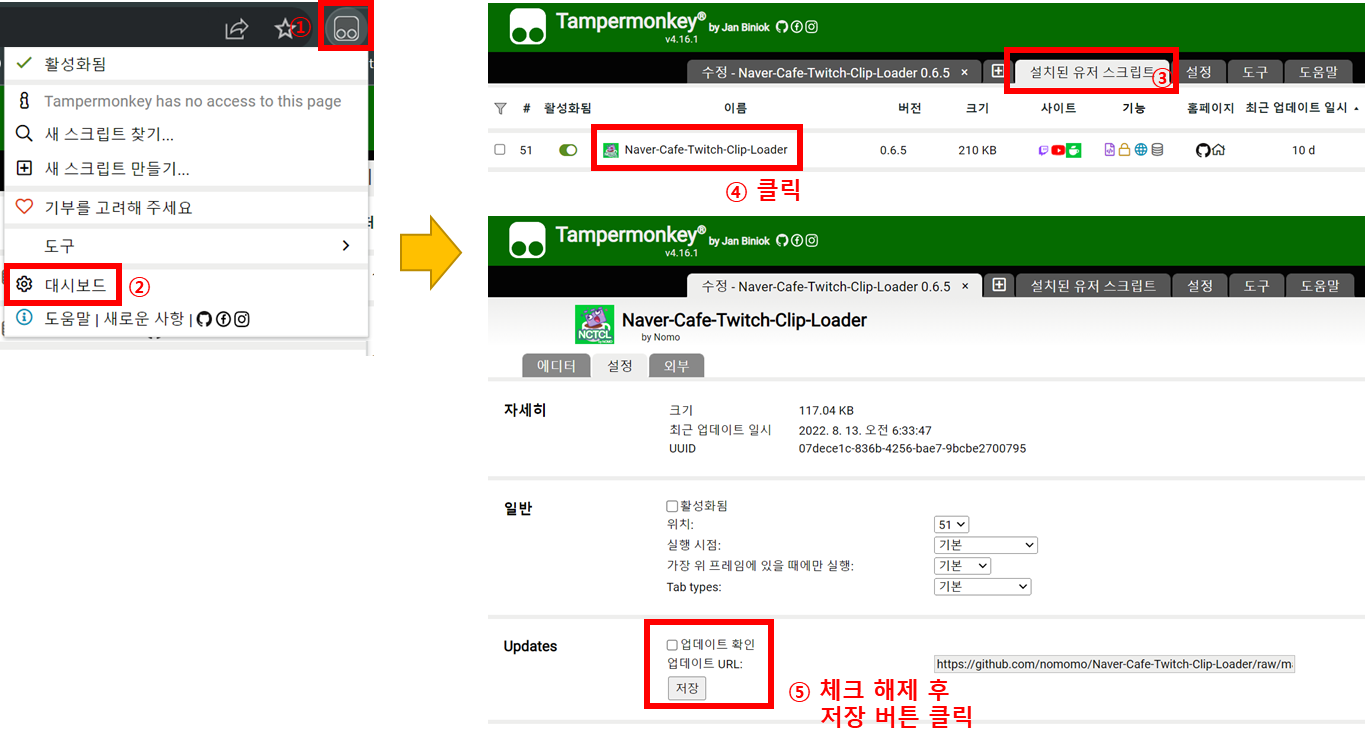
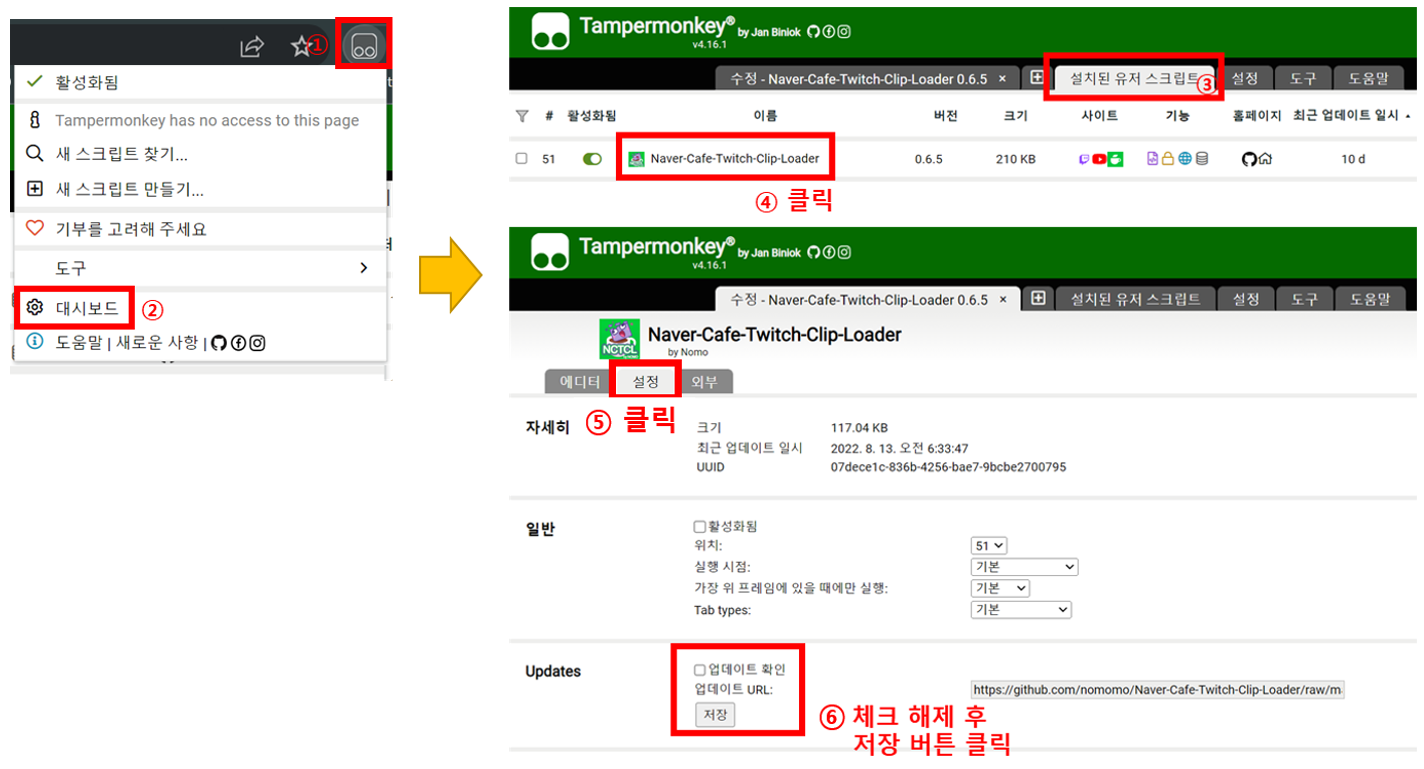
Update README.md

diff --git a/README.md b/README.md
@@ -50,7 +50,7 @@ Naver-Cafe-Twitch-Clip-Loader 의 설치 방법을 설명합니다.
 ## FAQ
 
 - Q: 스크립트를 새 버전으로 업데이트 하려면 어떻게 하나요?<br />A: 주기적으로 자동 업데이트 되지만, Tampermonkey 대시보드에서 "최근 업데이트 일시"를 클릭하여 수동 업데이트가 가능합니다.<br />설치 링크를 다시 클릭하여 업데이트 할 수도 있습니다. [Install](https://github.com/nomomo/Naver-Cafe-Twitch-Clip-Loader/raw/main/Naver-Cafe-Twitch-Clip-Loader.user.js)<br /><br />
-- Q: 스크립트를 업데이트 하기 싫은데 매일 업데이트 창이 떠요.<br />A: 다음과 같이 자동 업데이트를 해제하세요.<br />[Tampermonkey 대시보드] - [설치된 유저 스크립트] - [Naver-Cafe-Twitch-Clip_Loader] - [업데이트 확인 체크 해제] - [저장 버튼 클릭]<br />![DisableAutoUpdate](https://raw.githubusercontent.com/nomomo/Naver-Cafe-Twitch-Clip-Loader/master/images/NCTCL_disable_autoupdate.png)
+- Q: 스크립트를 업데이트 하기 싫은데 매일 업데이트 창이 떠요.<br />A: 다음과 같이 자동 업데이트를 해제하세요.<br />[Tampermonkey 대시보드] - [설치된 유저 스크립트] - [Naver-Cafe-Twitch-Clip_Loader] - [설정] - [업데이트 확인 체크 해제] - [저장 버튼 클릭]<br />![DisableAutoUpdate](https://raw.githubusercontent.com/nomomo/Naver-Cafe-Twitch-Clip-Loader/master/images/NCTCL_disable_autoupdate.png)
 
 ## Bug report
 
